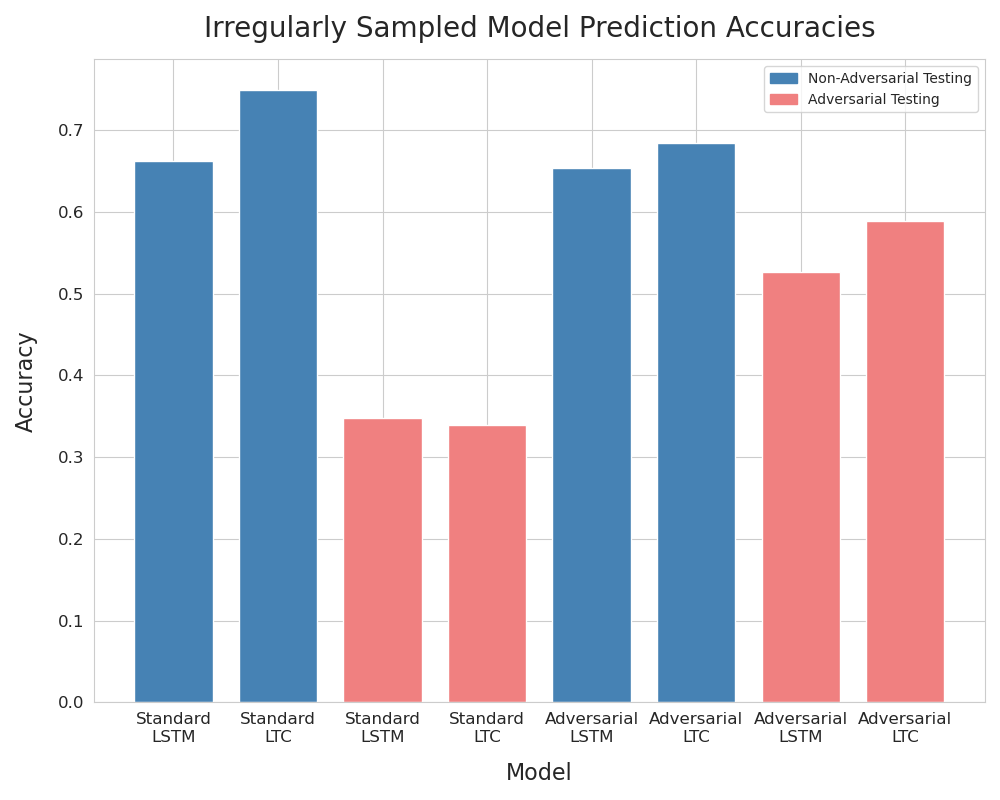
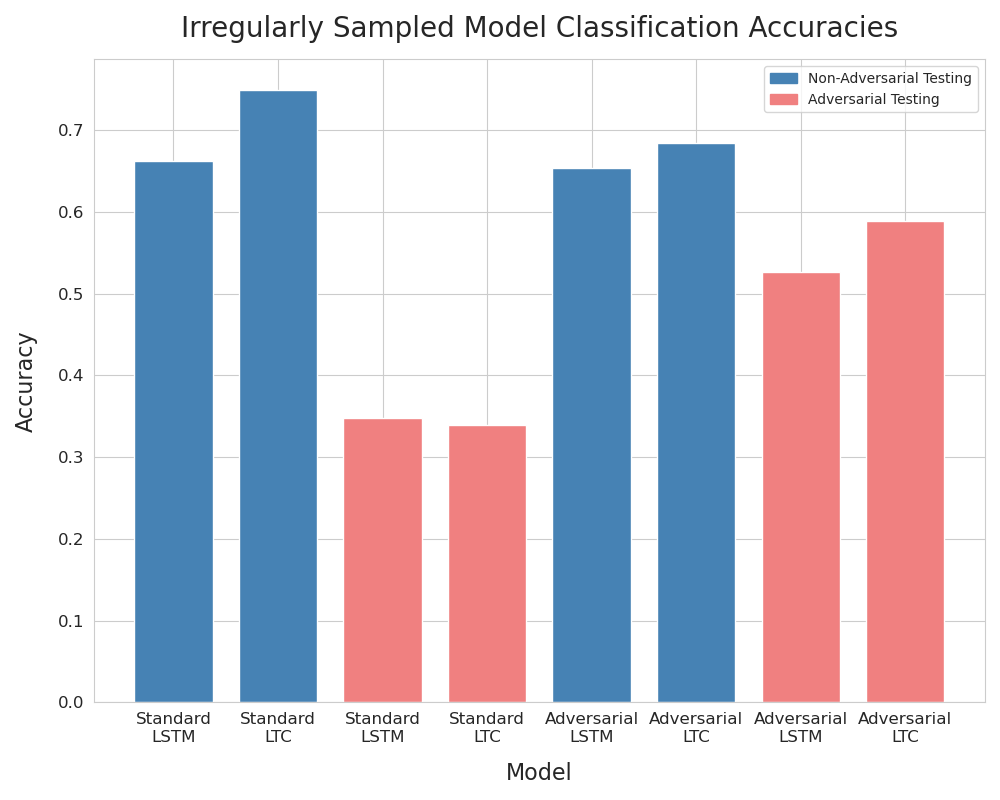
redo title for bar plot

Changed region(s): [[0.186, 0.0, 0.899, 0.0625]]

diff --git a/accuracy_plot.py b/accuracy_plot.py
@@ -153,9 +153,9 @@ def plot_all_models_accuracy_bar(models, model_accuracies, regular):
   plt.xlabel('Model', fontsize = 16, labelpad = 0)
   plt.ylabel('Accuracy', fontsize = 16, labelpad = 14)
   if regular:
-    plt.title("Regularly Sampled Model Prediction Accuracies", fontsize = 20, pad = 16.0)
+    plt.title("Regularly Sampled Model Classification Accuracies", fontsize = 20, pad = 16.0)
   else:
-    plt.title("Irregularly Sampled Model Prediction Accuracies", fontsize = 20, pad = 16.0)
+    plt.title("Irregularly Sampled Model Classification Accuracies", fontsize = 20, pad = 16.0)
   plt.yticks(fontsize=12)
   plt.xticks(fontsize=12)
   plt.tight_layout()
